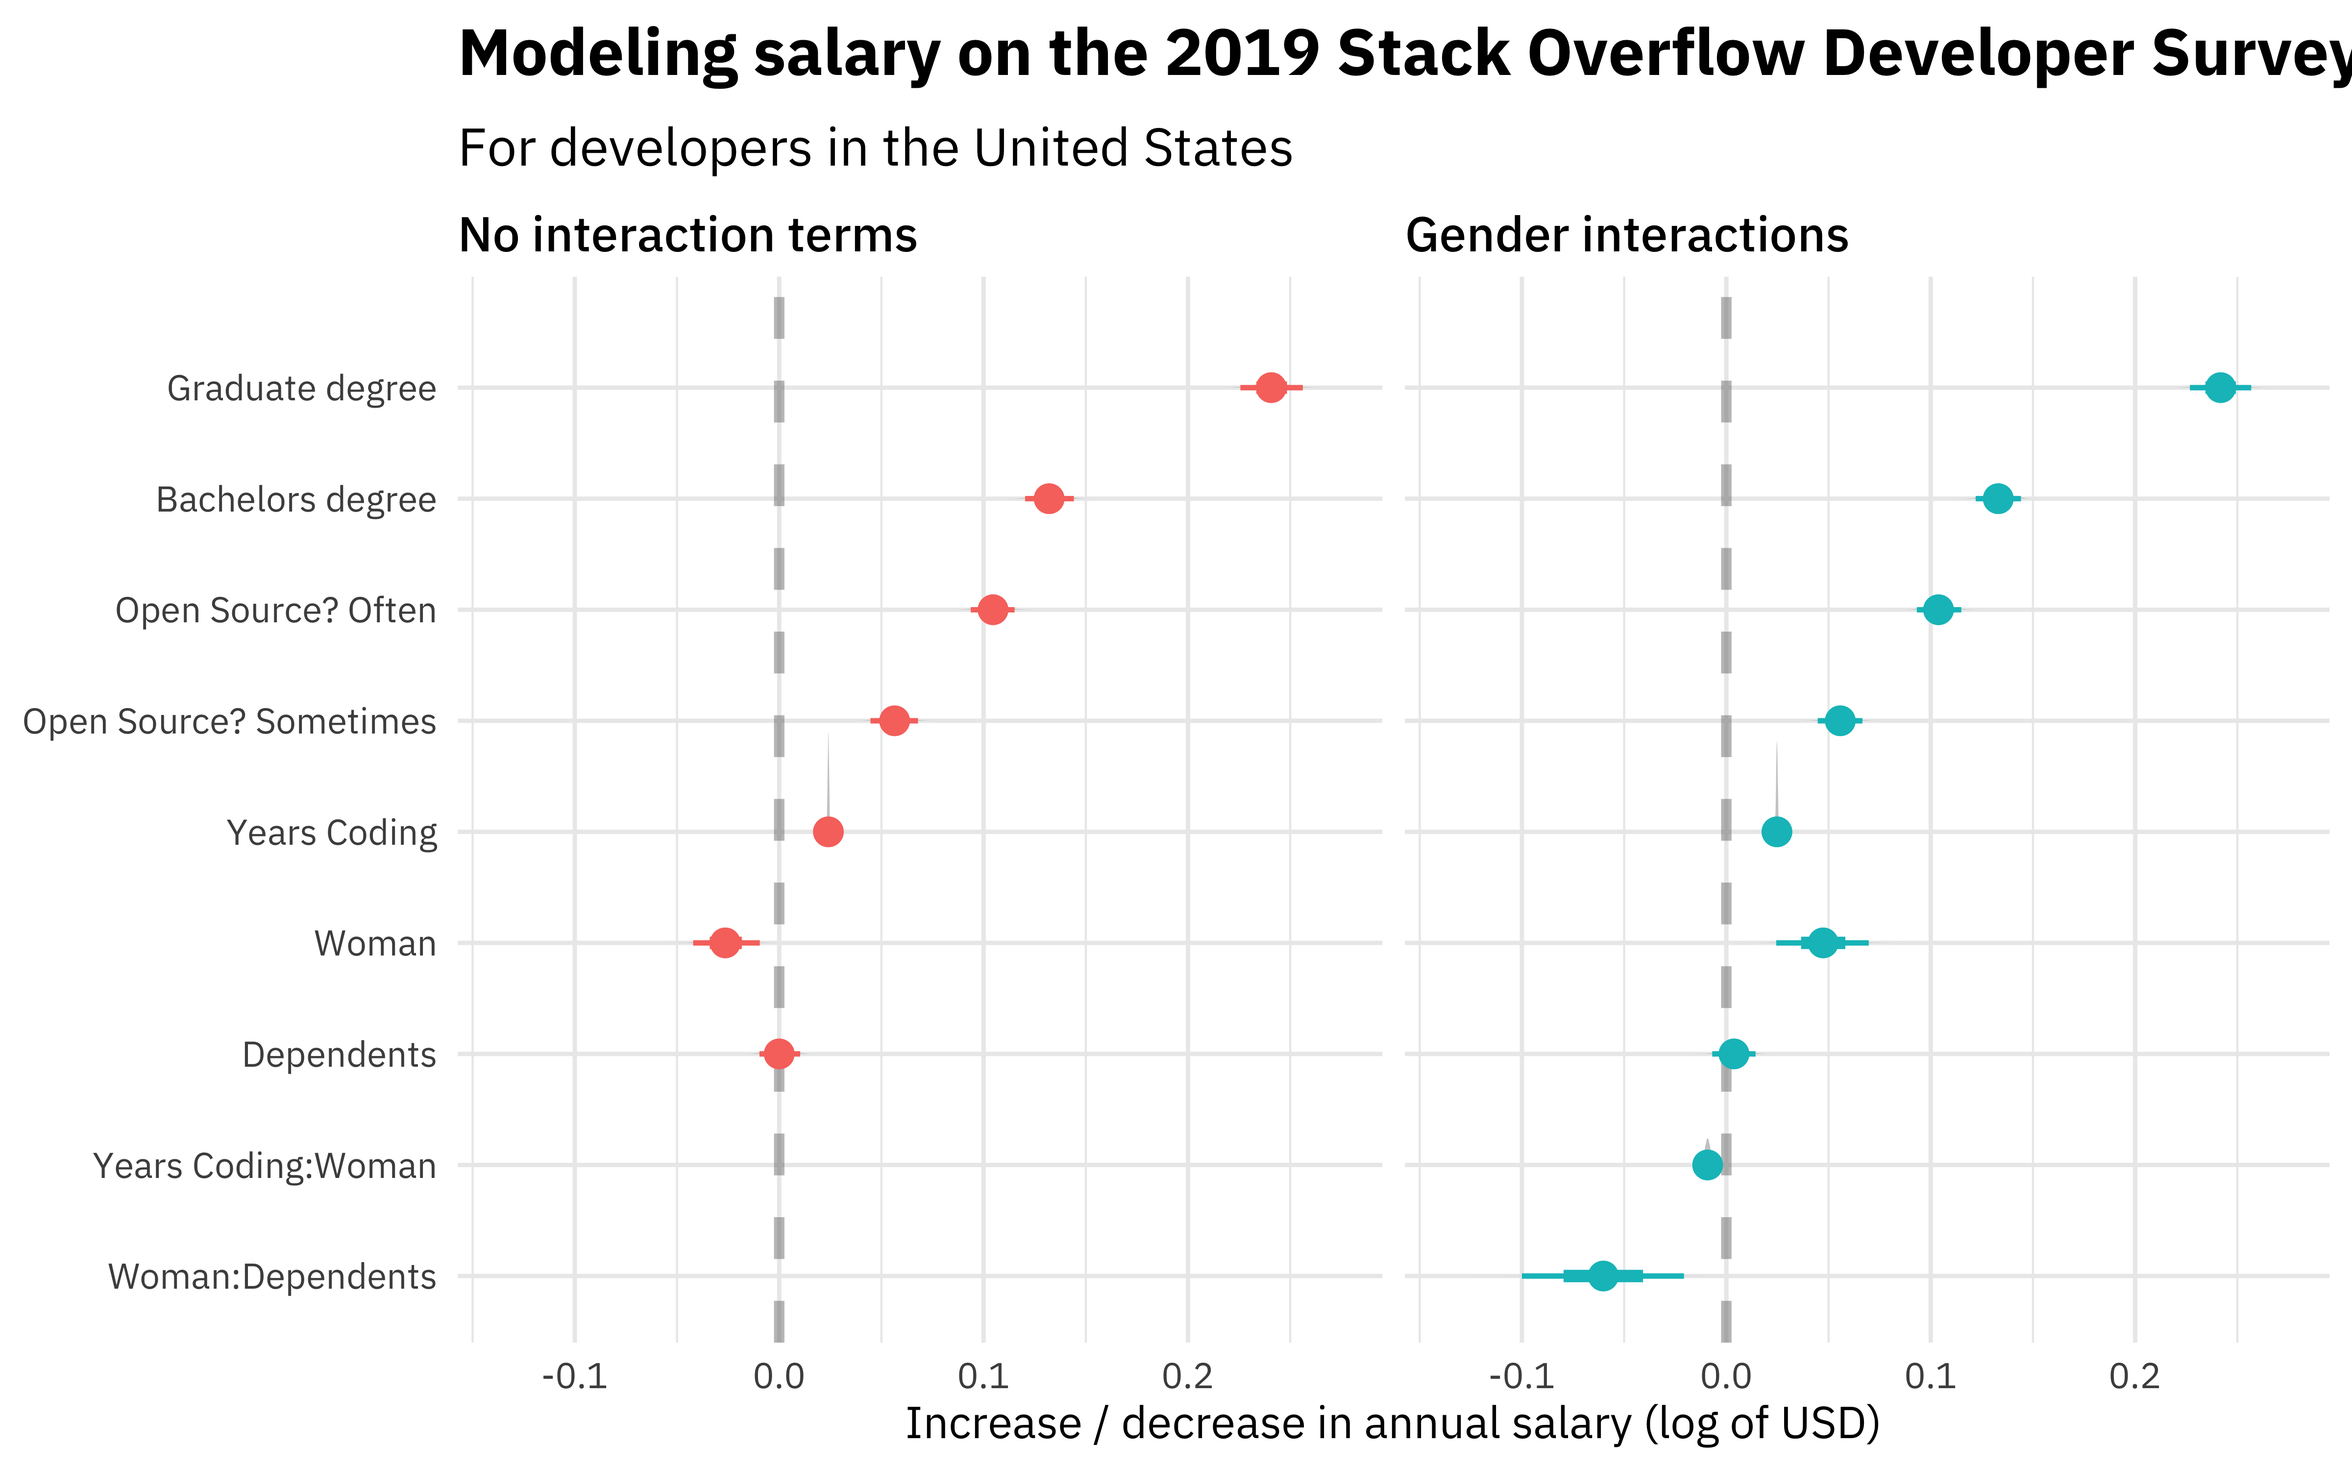
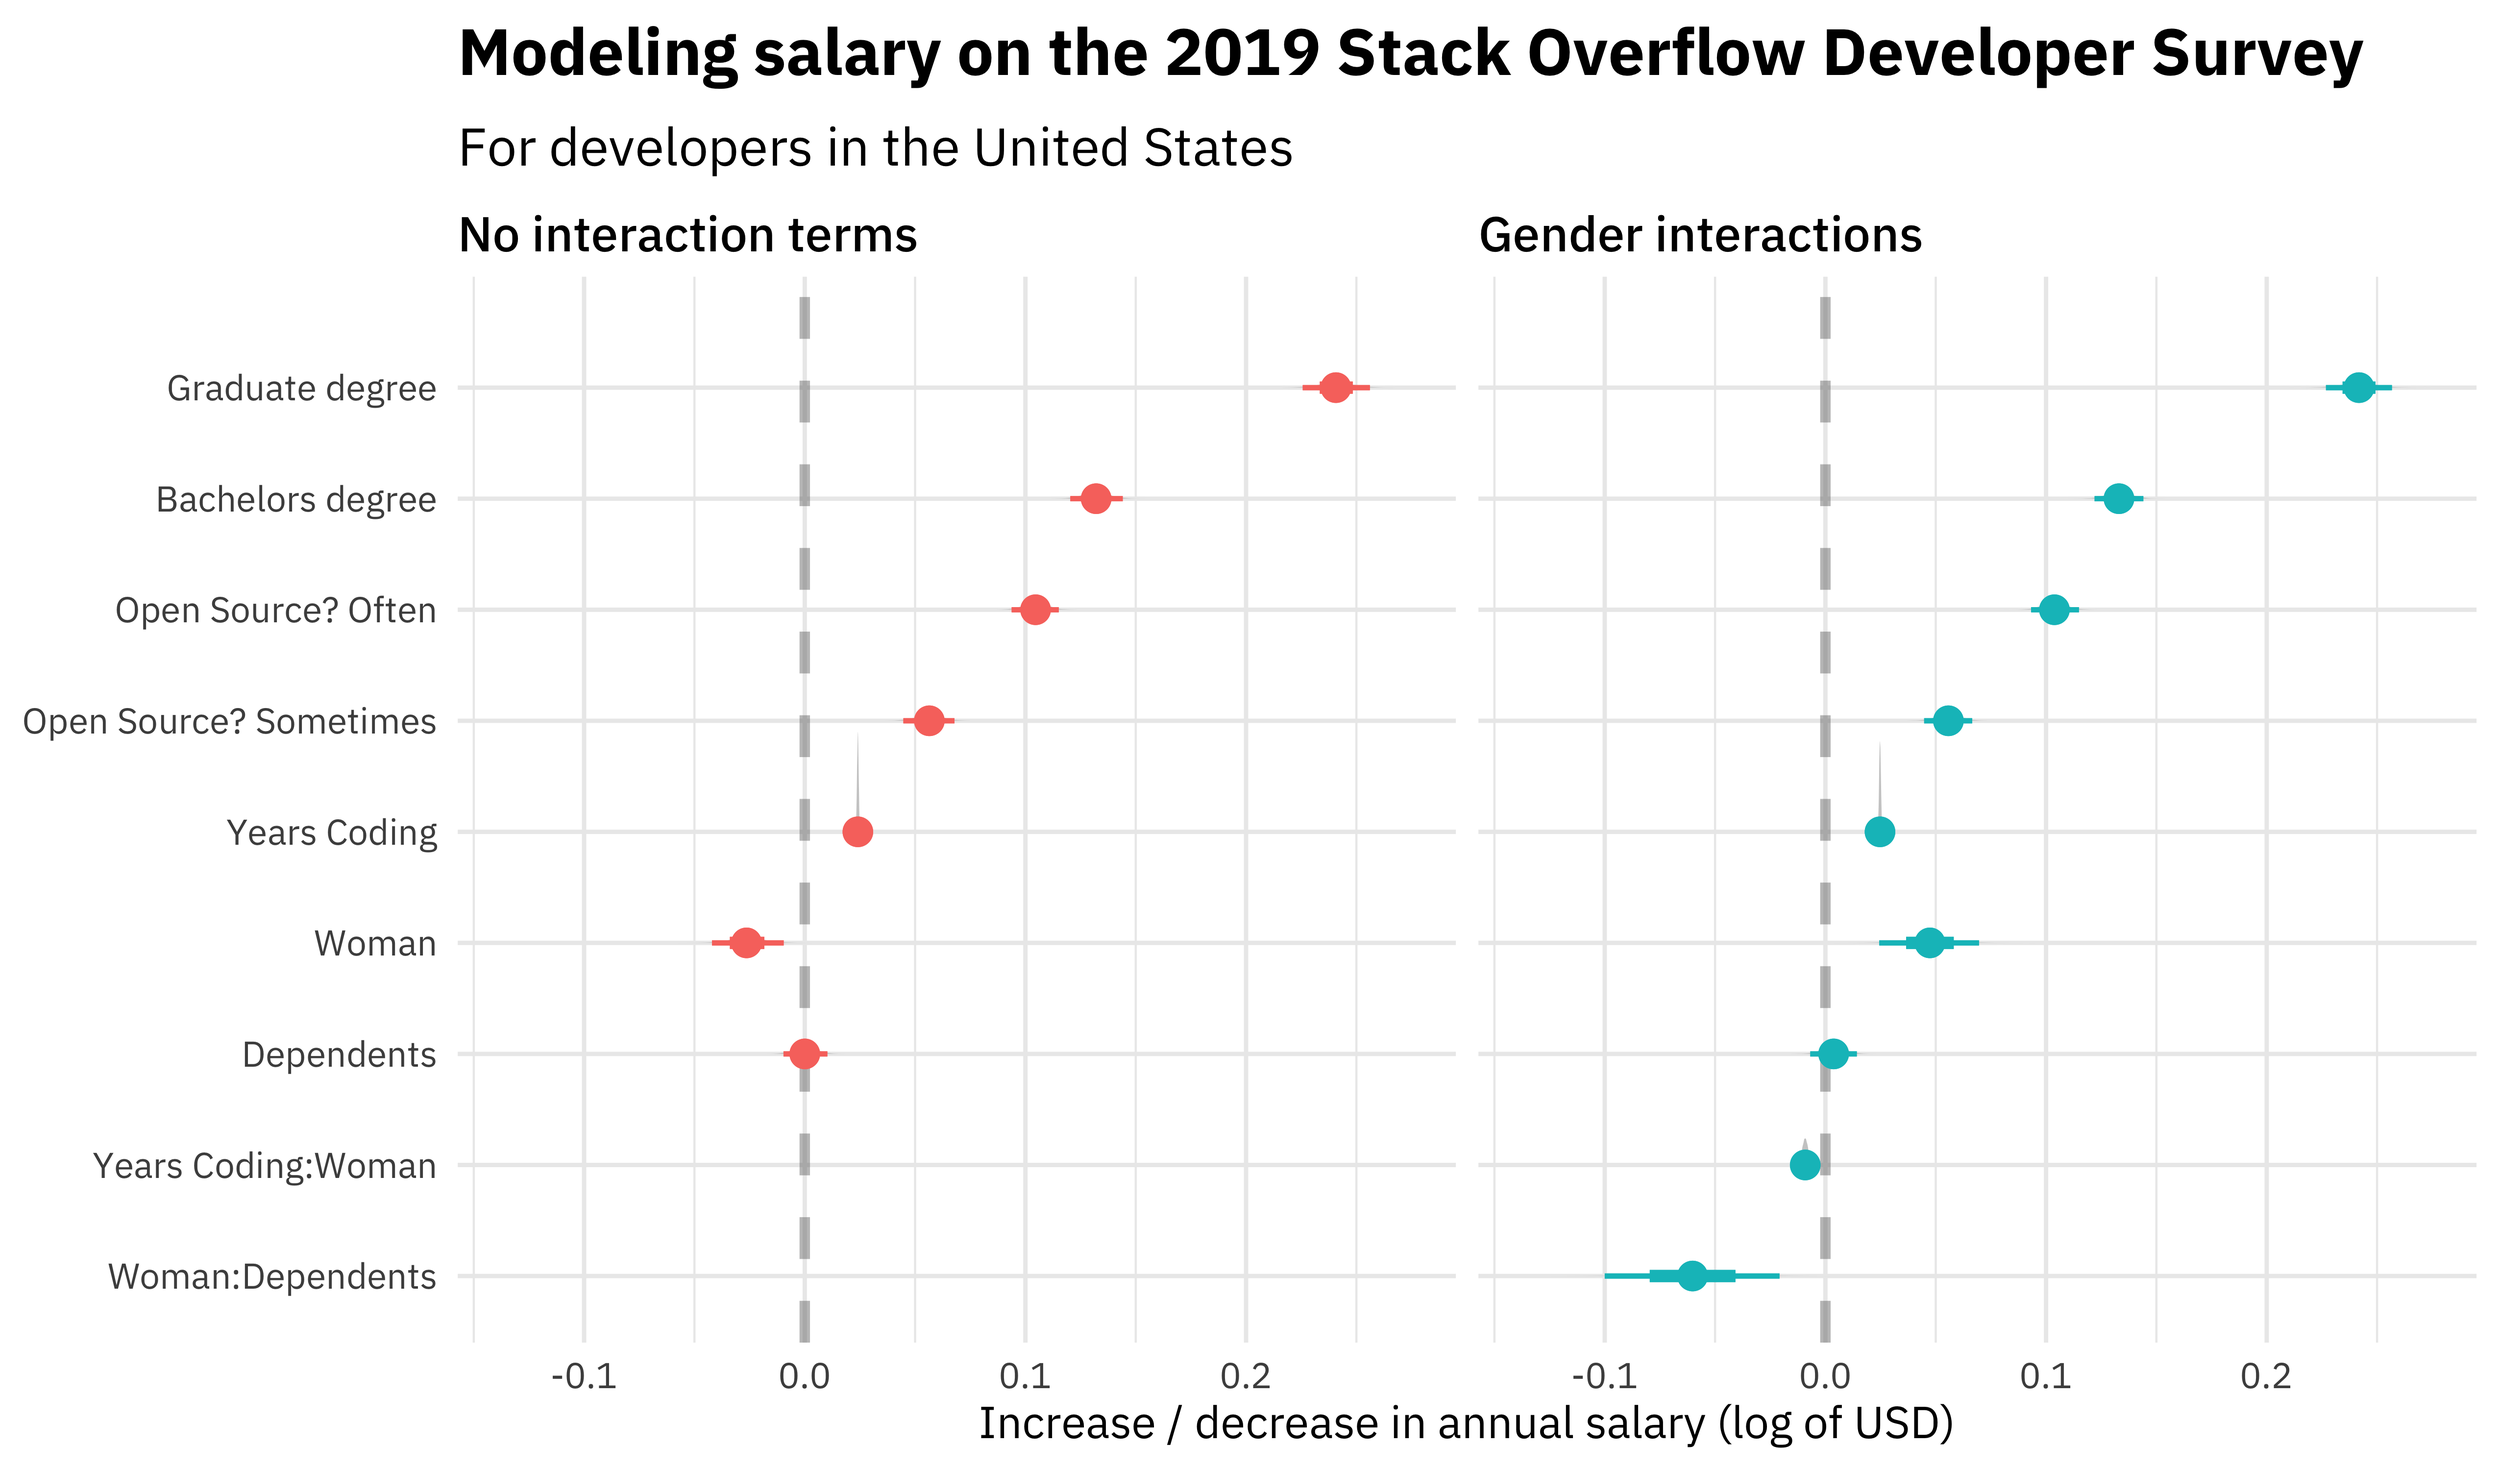
Fix up some code formatting

diff --git a/content/blog/2019/2019-12-31-salary-gender.html b/content/blog/2019/2019-12-31-salary-gender.html
@@ -447,9 +447,10 @@ glance(simple1) %&gt;%
 </table>
 <p>With the diverse set of developer types we have in this dataset, this modeling question is probably a better fit for something like a linear mixed effects model, rather than the basic <code>lm()</code> we started with. Some of my favorite resources for getting started with linear mixed effects models are <a href="https://pagepiccinini.com/r-course/lesson-6-part-1-linear-mixed-effects-models/">Page Piccinini’s tutorials</a> and <a href="https://stats.stackexchange.com/questions/13166/rs-lmer-cheat-sheet">this cheat sheet</a> on Cross Validated. In this case, we want developer type to be a random effect, while education, open source contribution, years of experience, dependents, and gender will be fixed effects (explanatory variables).</p>
 <pre class="r"><code>library(lme4)
-lmer1 &lt;- lmer(ConvertedComp ~ (1 | DevType) + EdLevel +
-  OpenSourcer + YearsCodePro + Dependents + Gender,
-data = modeling_df
+lmer1 &lt;- lmer(
+  ConvertedComp ~ (1 | DevType) + EdLevel +
+    OpenSourcer + YearsCodePro + Dependents + Gender,
+  data = modeling_df
 )
 
 summary(lmer1)</code></pre>
@@ -493,9 +494,10 @@ summary(lmer1)</code></pre>
 ## GenderWoman -0.055 -0.016 -0.050  0.043  0.098  0.056  0.069</code></pre>
 <p>Similar to before we see that more education and more open source contributions are associated with higher salary, and that each additional year of experience increases salary while women earn less. Having dependents does not affect salary.</p>
 <p>You may be wondering how robust this result is to the threshold on years of experience for respondents to be included in the model. What happens if we model only people who have 15 years of experience or less? Or 5 years of experience or less? There are some modest changes to the fixed effects, but the main fixed effect that changes in these cases is gender; there are strong signals that years of experience and gender interact when effecting salary. We can build such an interaction term into a mixed effects model in a similar way that we did before.</p>
-<pre class="r"><code>lmer2 &lt;- lmer(ConvertedComp ~ (1 | DevType) + EdLevel + OpenSourcer +
-  YearsCodePro * Gender + Dependents * Gender,
-data = modeling_df
+<pre class="r"><code>lmer2 &lt;- lmer(
+  ConvertedComp ~ (1 | DevType) + EdLevel + OpenSourcer +
+    YearsCodePro * Gender + Dependents * Gender,
+  data = modeling_df
 )
 
 summary(lmer2)</code></pre>
@@ -587,9 +589,10 @@ glance(lmer1) %&gt;%
 <pre class="r"><code>library(brms)
 options(mc.cores = parallel::detectCores())
 
-fit_bayes1 &lt;- brm(ConvertedComp ~ (1 | DevType) + EdLevel + OpenSourcer +
-  YearsCodePro + Dependents + Gender,
-data = modeling_df
+fit_bayes1 &lt;- brm(
+  ConvertedComp ~ (1 | DevType) + EdLevel + OpenSourcer +
+    YearsCodePro + Dependents + Gender,
+  data = modeling_df
 )
 
 summary(fit_bayes1)</code></pre>
@@ -603,39 +606,40 @@ summary(fit_bayes1)</code></pre>
 ## Group-Level Effects: 
 ## ~DevType (Number of levels: 15) 
 ##               Estimate Est.Error l-95% CI u-95% CI Rhat Bulk_ESS Tail_ESS
-## sd(Intercept)     0.08      0.02     0.06     0.12 1.00      646     1085
+## sd(Intercept)     0.08      0.02     0.06     0.13 1.00      626     1056
 ## 
 ## Population-Level Effects: 
 ##                        Estimate Est.Error l-95% CI u-95% CI Rhat Bulk_ESS
-## Intercept                 11.12      0.02    11.07    11.16 1.00      611
-## EdLevelBachelorsdegree     0.13      0.01     0.12     0.14 1.00     3121
-## EdLevelGraduatedegree      0.24      0.01     0.23     0.26 1.00     2940
-## OpenSourcerSometimes       0.06      0.01     0.04     0.07 1.00     3477
-## OpenSourcerOften           0.10      0.01     0.09     0.12 1.00     3603
-## YearsCodePro               0.02      0.00     0.02     0.02 1.00     4241
-## DependentsYes              0.00      0.01    -0.01     0.01 1.00     4400
-## GenderWoman               -0.03      0.01    -0.04    -0.01 1.00     3693
+## Intercept                 11.12      0.02    11.07    11.16 1.01      646
+## EdLevelBachelorsdegree     0.13      0.01     0.12     0.14 1.00     3197
+## EdLevelGraduatedegree      0.24      0.01     0.23     0.26 1.00     3201
+## OpenSourcerSometimes       0.06      0.01     0.05     0.07 1.00     3341
+## OpenSourcerOften           0.10      0.01     0.09     0.12 1.00     3616
+## YearsCodePro               0.02      0.00     0.02     0.02 1.00     3986
+## DependentsYes              0.00      0.01    -0.01     0.01 1.00     4262
+## GenderWoman               -0.03      0.01    -0.04    -0.01 1.00     3660
 ##                        Tail_ESS
-## Intercept                  1030
-## EdLevelBachelorsdegree     2858
-## EdLevelGraduatedegree      2838
-## OpenSourcerSometimes       2646
-## OpenSourcerOften           2840
-## YearsCodePro               3082
-## DependentsYes              3127
-## GenderWoman                2312
+## Intercept                  1010
+## EdLevelBachelorsdegree     3091
+## EdLevelGraduatedegree      2622
+## OpenSourcerSometimes       2901
+## OpenSourcerOften           2907
+## YearsCodePro               2990
+## DependentsYes              2414
+## GenderWoman                2826
 ## 
 ## Family Specific Parameters: 
 ##       Estimate Est.Error l-95% CI u-95% CI Rhat Bulk_ESS Tail_ESS
-## sigma     0.34      0.00     0.34     0.35 1.00     3920     2485
+## sigma     0.34      0.00     0.34     0.35 1.00     4099     2875
 ## 
 ## Samples were drawn using sampling(NUTS). For each parameter, Eff.Sample 
 ## is a crude measure of effective sample size, and Rhat is the potential 
 ## scale reduction factor on split chains (at convergence, Rhat = 1).</code></pre>
 <p>Second, let’s train a model with an interaction between years of experience and gender and an interaction between dependents and gender.</p>
-<pre class="r"><code>fit_bayes2 &lt;- brm(ConvertedComp ~ (1 | DevType) + EdLevel + OpenSourcer +
-  YearsCodePro * Gender + Dependents * Gender,
-data = modeling_df
+<pre class="r"><code>fit_bayes2 &lt;- brm(
+  ConvertedComp ~ (1 | DevType) + EdLevel + OpenSourcer +
+    YearsCodePro * Gender + Dependents * Gender,
+  data = modeling_df
 )
 
 summary(fit_bayes2)</code></pre>
@@ -649,35 +653,35 @@ summary(fit_bayes2)</code></pre>
 ## Group-Level Effects: 
 ## ~DevType (Number of levels: 15) 
 ##               Estimate Est.Error l-95% CI u-95% CI Rhat Bulk_ESS Tail_ESS
-## sd(Intercept)     0.08      0.02     0.06     0.13 1.01      649     1131
+## sd(Intercept)     0.08      0.02     0.06     0.13 1.00      761     1505
 ## 
 ## Population-Level Effects: 
 ##                           Estimate Est.Error l-95% CI u-95% CI Rhat Bulk_ESS
-## Intercept                    11.11      0.02    11.06    11.15 1.00      748
-## EdLevelBachelorsdegree        0.13      0.01     0.12     0.14 1.00     4039
-## EdLevelGraduatedegree         0.24      0.01     0.23     0.26 1.00     3625
-## OpenSourcerSometimes          0.06      0.01     0.04     0.07 1.00     3998
-## OpenSourcerOften              0.10      0.01     0.09     0.11 1.00     3744
-## YearsCodePro                  0.02      0.00     0.02     0.03 1.00     4125
-## GenderWoman                   0.05      0.01     0.02     0.07 1.00     3410
-## DependentsYes                 0.00      0.01    -0.01     0.01 1.00     3982
-## YearsCodePro:GenderWoman     -0.01      0.00    -0.01    -0.01 1.00     3877
-## GenderWoman:DependentsYes    -0.06      0.02    -0.10    -0.02 1.00     3364
+## Intercept                    11.11      0.02    11.06    11.15 1.00      668
+## EdLevelBachelorsdegree        0.13      0.01     0.12     0.14 1.00     3815
+## EdLevelGraduatedegree         0.24      0.01     0.23     0.26 1.00     3670
+## OpenSourcerSometimes          0.06      0.01     0.04     0.07 1.00     3678
+## OpenSourcerOften              0.10      0.01     0.09     0.12 1.00     3678
+## YearsCodePro                  0.02      0.00     0.02     0.03 1.00     4133
+## GenderWoman                   0.05      0.01     0.02     0.07 1.00     3383
+## DependentsYes                 0.00      0.01    -0.01     0.01 1.00     4335
+## YearsCodePro:GenderWoman     -0.01      0.00    -0.01    -0.01 1.00     3897
+## GenderWoman:DependentsYes    -0.06      0.02    -0.10    -0.02 1.00     3560
 ##                           Tail_ESS
-## Intercept                     1111
-## EdLevelBachelorsdegree        3167
-## EdLevelGraduatedegree         3187
-## OpenSourcerSometimes          3056
-## OpenSourcerOften              2847
-## YearsCodePro                  2909
-## GenderWoman                   2901
-## DependentsYes                 2918
-## YearsCodePro:GenderWoman      3118
-## GenderWoman:DependentsYes     2790
+## Intercept                     1138
+## EdLevelBachelorsdegree        3080
+## EdLevelGraduatedegree         3141
+## OpenSourcerSometimes          3219
+## OpenSourcerOften              2971
+## YearsCodePro                  2957
+## GenderWoman                   2691
+## DependentsYes                 2722
+## YearsCodePro:GenderWoman      3242
+## GenderWoman:DependentsYes     2794
 ## 
 ## Family Specific Parameters: 
 ##       Estimate Est.Error l-95% CI u-95% CI Rhat Bulk_ESS Tail_ESS
-## sigma     0.34      0.00     0.34     0.35 1.00     4976     2526
+## sigma     0.34      0.00     0.34     0.35 1.00     4884     3304
 ## 
 ## Samples were drawn using sampling(NUTS). For each parameter, Eff.Sample 
 ## is a crude measure of effective sample size, and Rhat is the potential 
@@ -716,10 +720,11 @@ fit_bayes1 %&gt;%
     title = &quot;Modeling salary on the 2019 Stack Overflow Developer Survey&quot;,
     subtitle = &quot;For developers in the United States&quot;
   )</code></pre>
-<p><img src="/blog/2019/2019-12-31-salary-gender_files/figure-html/bayes_plot-1.png" width="2400" /></p>
+<p><img src="/blog/2019/2019-12-31-salary-gender_files/figure-html/bayes_plot-1.png" width="2550" /></p>
 <p>I find this style of visualization very informative and helpful. I am a big fan of the <a href="http://mjskay.github.io/tidybayes/">tidybayes</a> package!</p>
 <p>Without interaction terms, being a woman is associated with lower salary; the size of the effect is about the same as one year’s worth of salary increase. Also, having dependents does not affect salary. With an interaction term, women earn more at zero experience, but the interaction term between gender and experience is such that women earn about 2/3 as much for each additional year of experience compared to similar men. Women (but not men) earn less when they have dependents, to the tune of about two years’ worth of salary increases. We can understand this more quantitatively if we create confidence intervals for the model result.</p>
-<pre class="r"><code>tidyMCMC(fit_bayes2,
+<pre class="r"><code>tidyMCMC(
+  fit_bayes2,
   conf.int = TRUE, conf.level = 0.95,
   estimate.method = &quot;median&quot;, conf.method = &quot;HPDinterval&quot;
 ) %&gt;%
